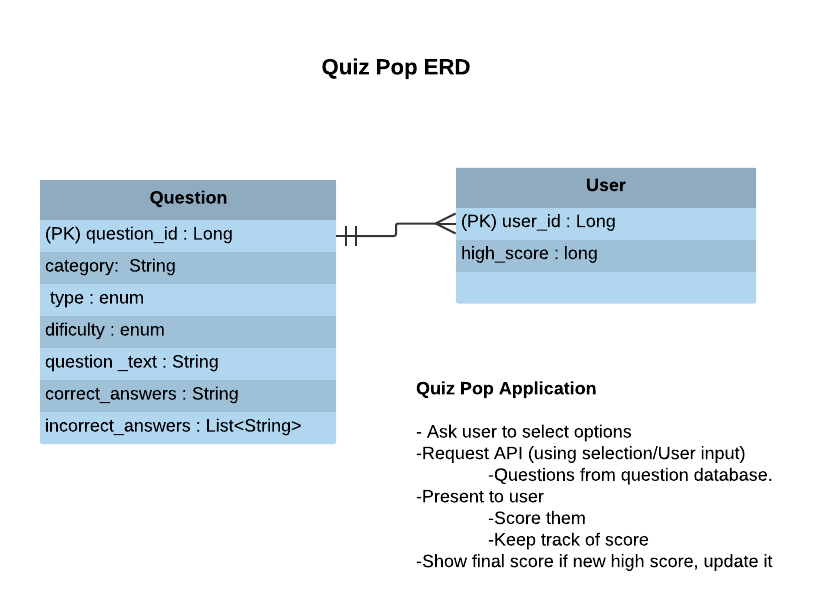
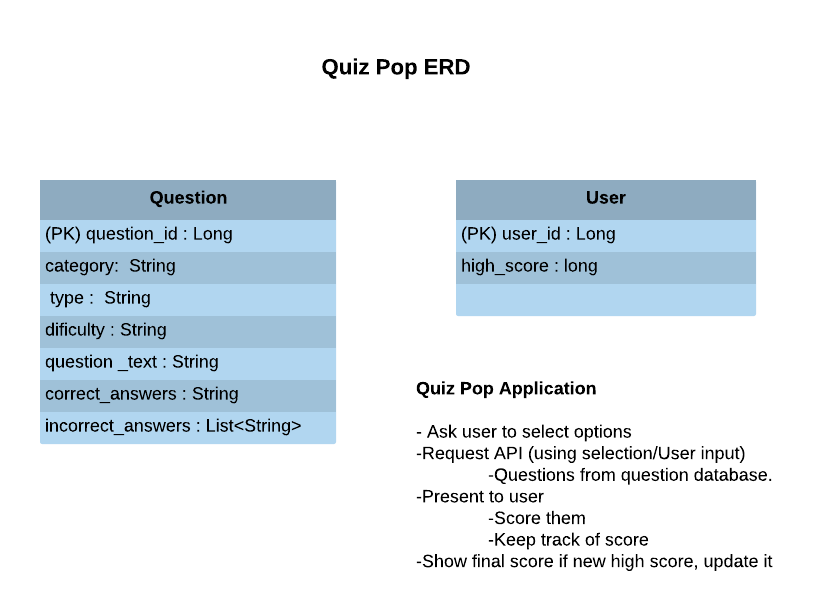
Added annotations to classes

diff --git a/app/src/main/java/dev/jbond/quizpop/model/entity/Question.java b/app/src/main/java/dev/jbond/quizpop/model/entity/Question.java
@@ -14,13 +14,9 @@ public class Question {
 
   private String category;
 
-  private enum Type {
-    MULTIPLE, TRUE_FALSE
-  }
+  private String type;
 
-  private enum Difficulty {
-    easy, medium, hard
-  }
+  private String difficulty;
 
   @NonNull
   private String questionText;
@@ -30,10 +26,60 @@ public class Question {
   private List<String> incorrectAnswers;
 
 
+  public long getId() {
+    return id;
+  }
 
+  public void setId(long id) {
+    this.id = id;
+  }
 
+  public String getCategory() {
+    return category;
+  }
 
+  public void setCategory(String category) {
+    this.category = category;
+  }
 
+  public String getType() {
+    return type;
+  }
 
+  public void setType(String type) {
+    this.type = type;
+  }
 
+  public String getDifficulty() {
+    return difficulty;
+  }
+
+  public void setDifficulty(String difficulty) {
+    this.difficulty = difficulty;
+  }
+
+  @NonNull
+  public String getQuestionText() {
+    return questionText;
+  }
+
+  public void setQuestionText(@NonNull String questionText) {
+    this.questionText = questionText;
+  }
+
+  public String getCorrectAnswers() {
+    return correctAnswers;
+  }
+
+  public void setCorrectAnswers(String correctAnswers) {
+    this.correctAnswers = correctAnswers;
+  }
+
+  public List<String> getIncorrectAnswers() {
+    return incorrectAnswers;
+  }
+
+  public void setIncorrectAnswers(List<String> incorrectAnswers) {
+    this.incorrectAnswers = incorrectAnswers;
+  }
 }

diff --git a/app/src/main/java/dev/jbond/quizpop/model/entity/User.java b/app/src/main/java/dev/jbond/quizpop/model/entity/User.java
@@ -15,6 +15,10 @@ public class User {
     return id;
   }
 
+  public void setId(long id) {
+    this.id = id;
+  }
+
   public long getHighScore() {
     return highScore;
   }
